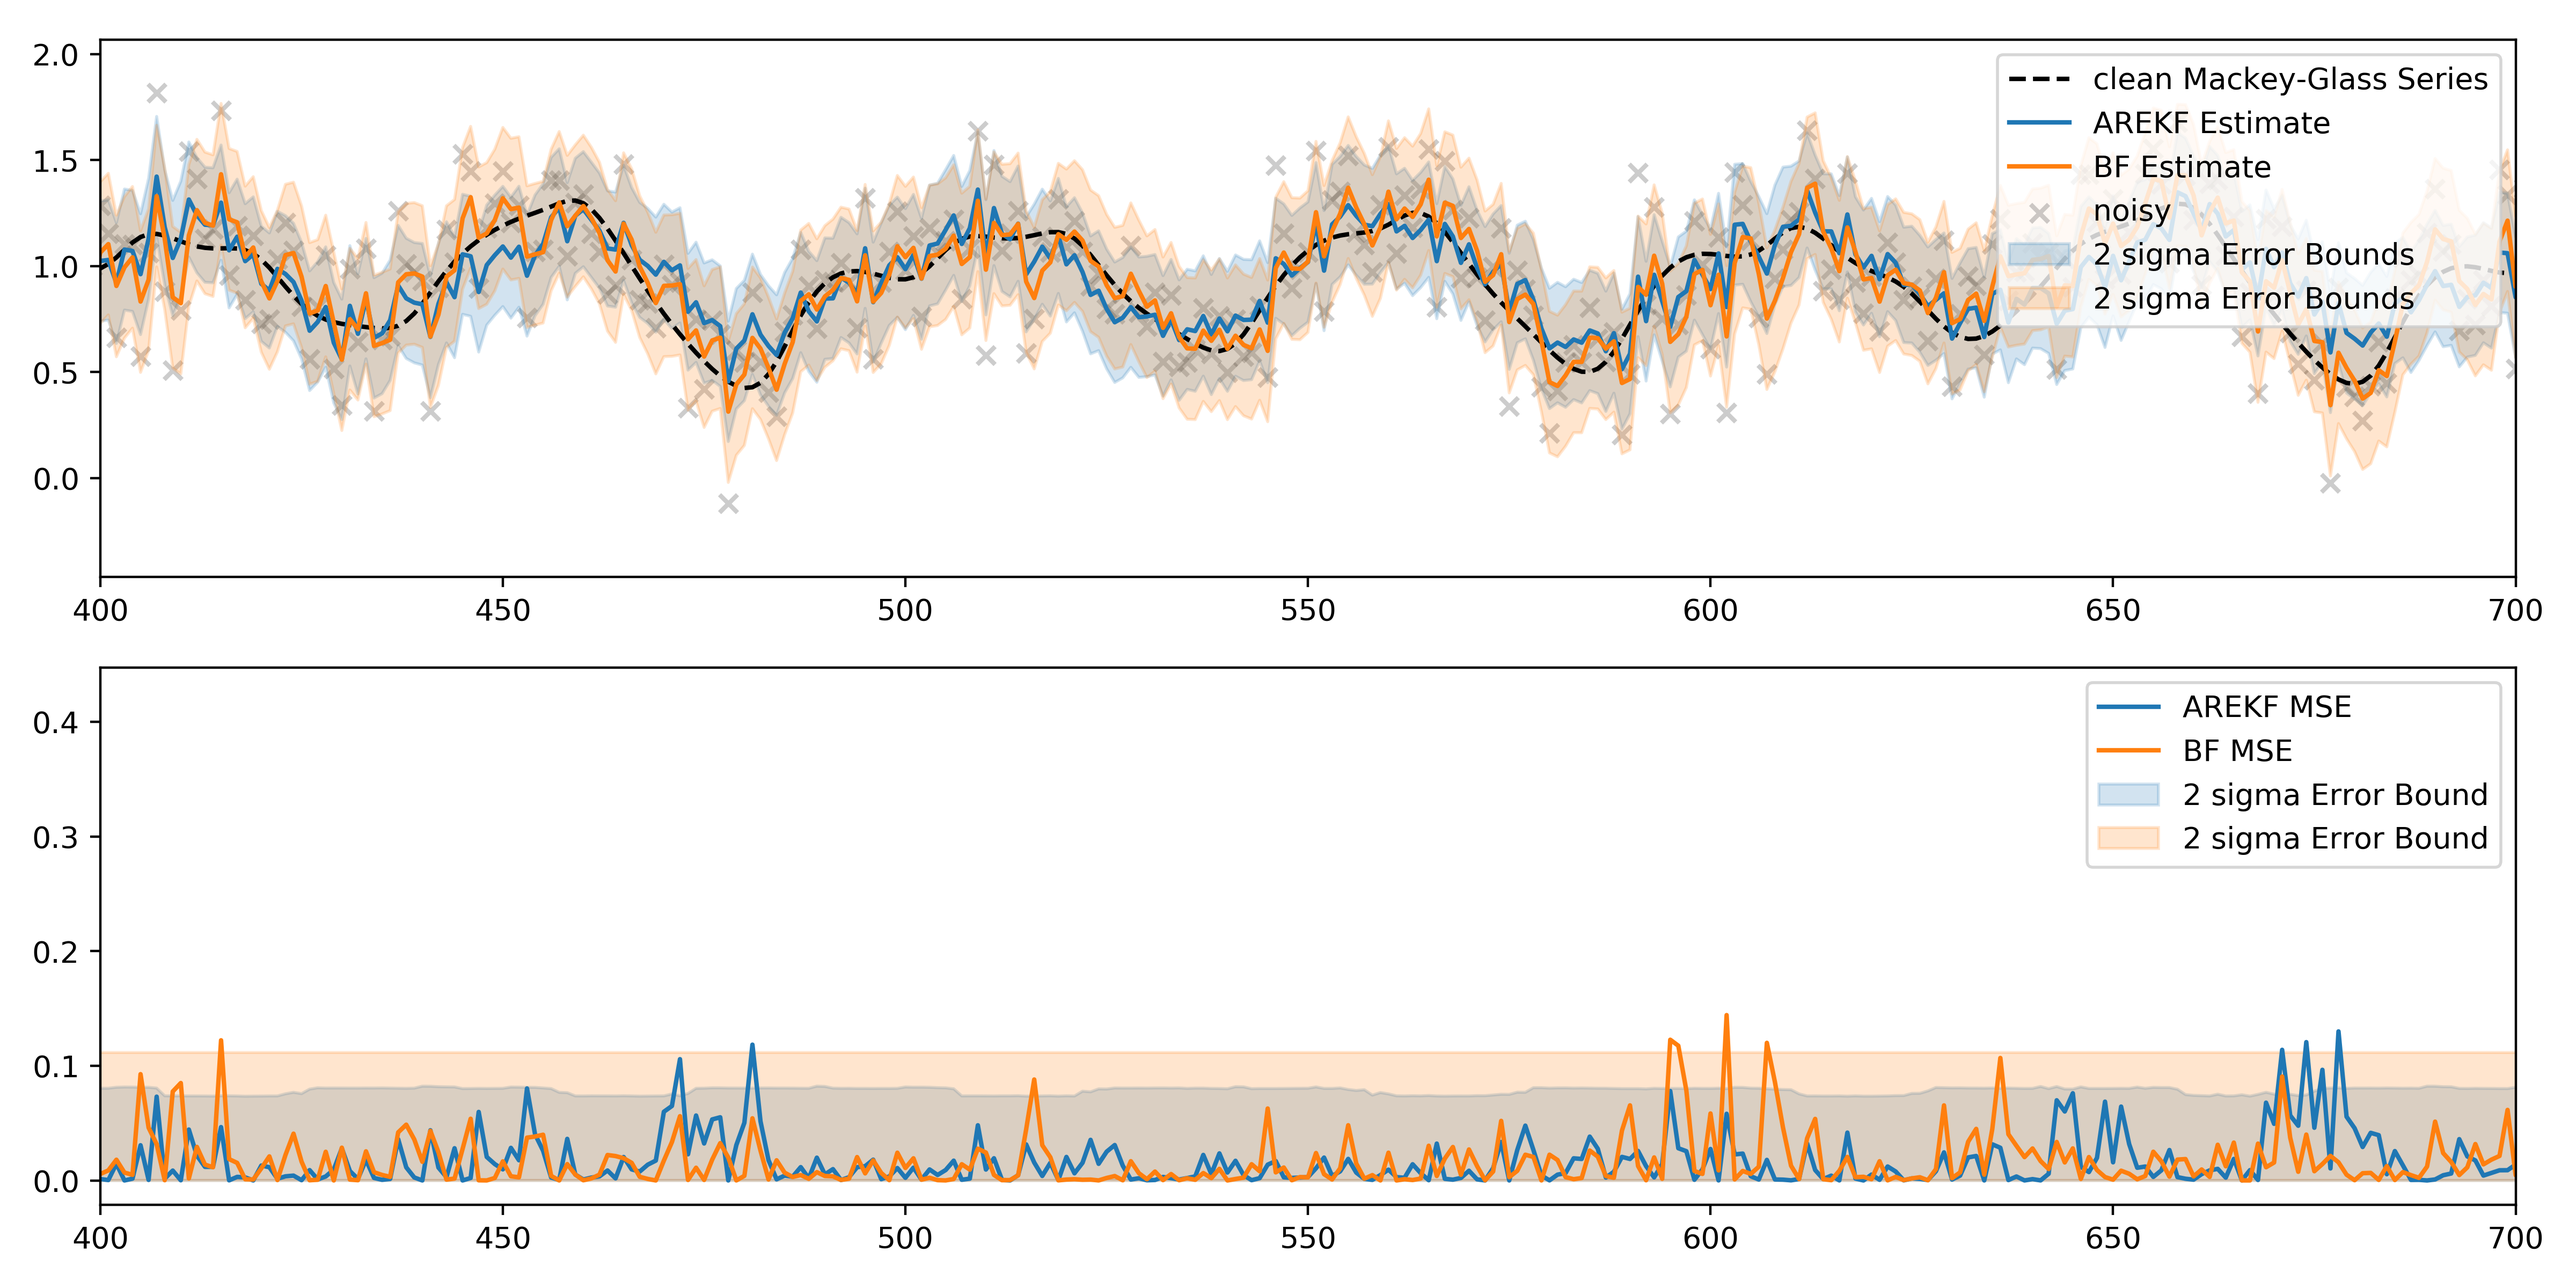
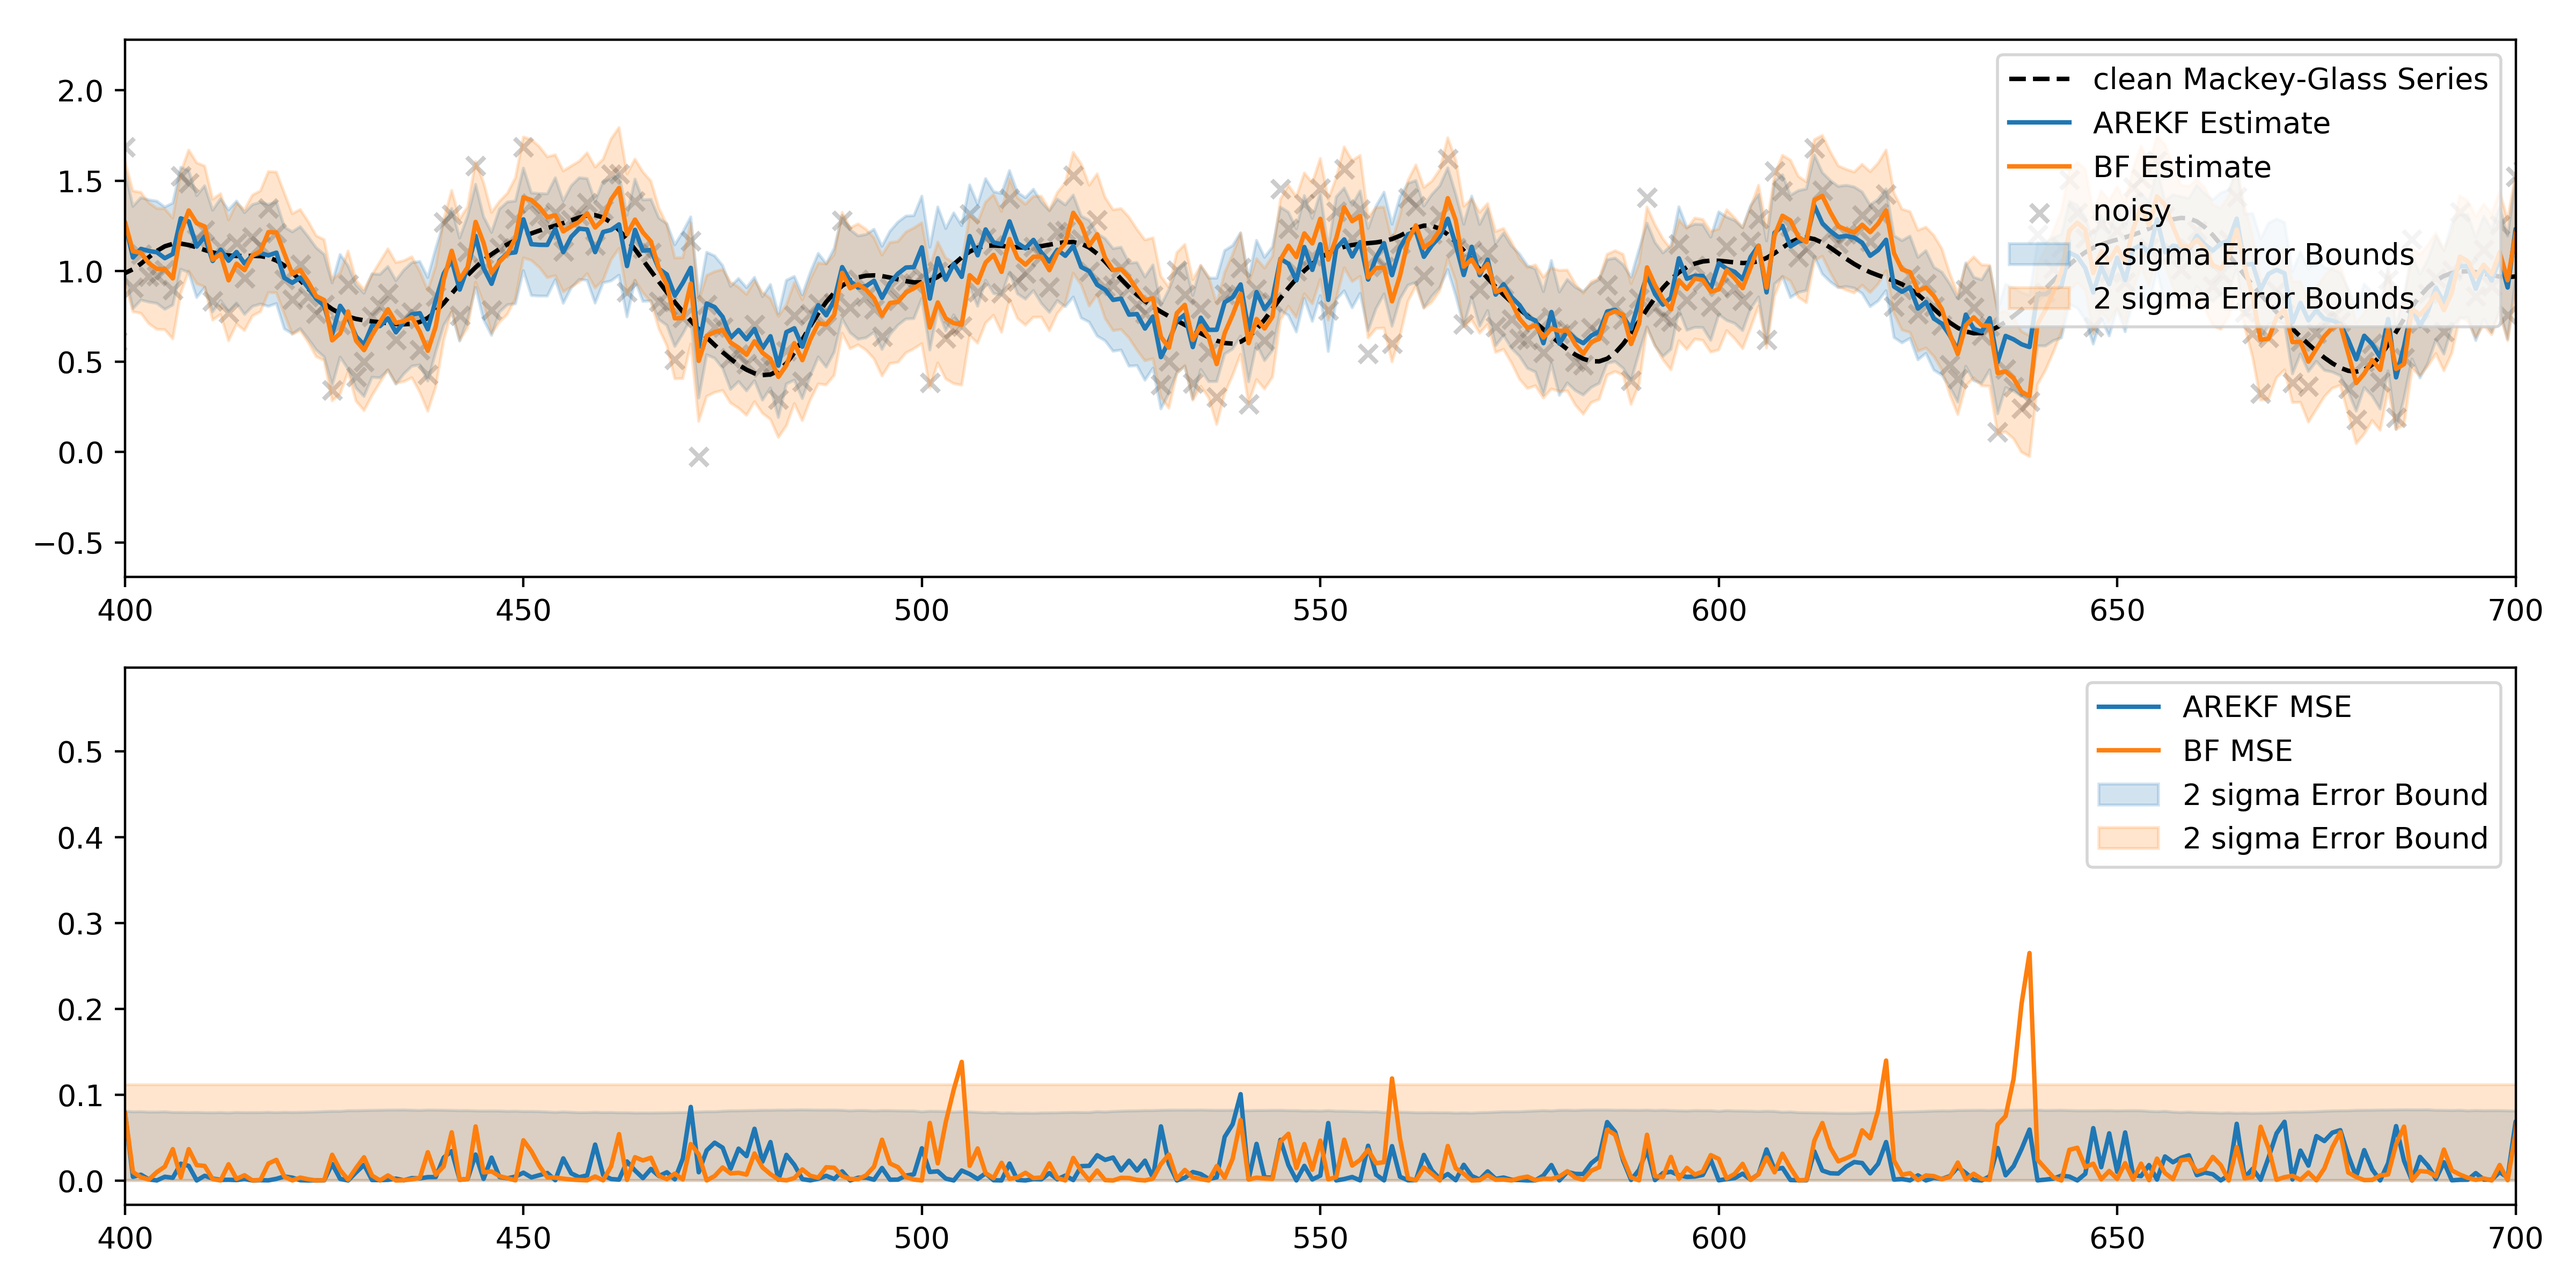
.

diff --git a/KalmanFilters.py b/KalmanFilters.py
@@ -9,7 +9,7 @@ from lasagne.layers import InputLayer, ReshapeLayer, DenseLayer, \
                            RecurrentLayer, LSTMLayer, \
                            get_output, get_all_params, \
                            get_all_param_values, set_all_param_values
-from lasagne.nonlinearities import rectify, linear
+from lasagne.nonlinearities import rectify, linear, tanh
 from lasagne.objectives import squared_error
 from lasagne.regularization import regularize_network_params, l2 as L2
 from lasagne.updates import adam
@@ -107,11 +107,12 @@ class BrownianFilter:
 
 class AutoRegressiveModel:
     def __init__(self,
-                 steps      = 1,
-                 num_layers = 2,
-                 num_units  = 32,
-                 eps        = 1e-2,
-                 recurrent  = False,
+                 steps        = 1,
+                 num_layers   = 2,
+                 num_units    = 32,
+                 eps          = 1e-2,
+                 recurrent    = False,
+                 nonlinearity = tanh,
                  ):
         self.steps = steps
 
@@ -127,7 +128,7 @@ class AutoRegressiveModel:
             for k in range(num_layers):
                 l = DenseLayer(l,
                                num_units    = num_units,
-                               nonlinearity = rectify)
+                               nonlinearity = nonlinearity)
             l = DenseLayer(l,
                            num_units    = 1,
                            nonlinearity = linear)

diff --git a/testAutoRegressiveEKF.py b/testAutoRegressiveEKF.py
@@ -10,7 +10,9 @@ S = int(0.5 * len(b))
 E = -int(0.25 * len(b))
 
 bf = BrownianFilter()
-ekf = AutoRegressiveExtendedKalmanFilter(K, eps=1e-3)
+ekf = AutoRegressiveExtendedKalmanFilter(K,
+                                         num_units=64,
+                                         eps=5e-3)
 ekf.fit(b[:S])
 
 q = 0.15

diff --git a/testAutoRegressiveEKFPrediction.py b/testAutoRegressiveEKFPrediction.py
@@ -10,7 +10,9 @@ S = int(0.5 * len(b))
 E = -int(0.25 * len(b))
 
 bf = BrownianFilter()
-ekf = AutoRegressiveExtendedKalmanFilter(K, eps=1e-3)
+ekf = AutoRegressiveExtendedKalmanFilter(K,
+                                         num_units=64,
+                                         eps=5e-3)
 ekf.fit(b[:S])
 
 q = 0.15
